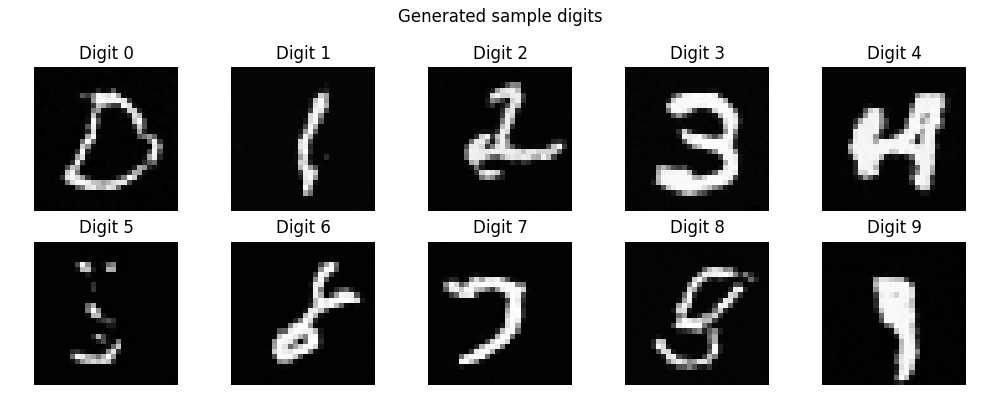
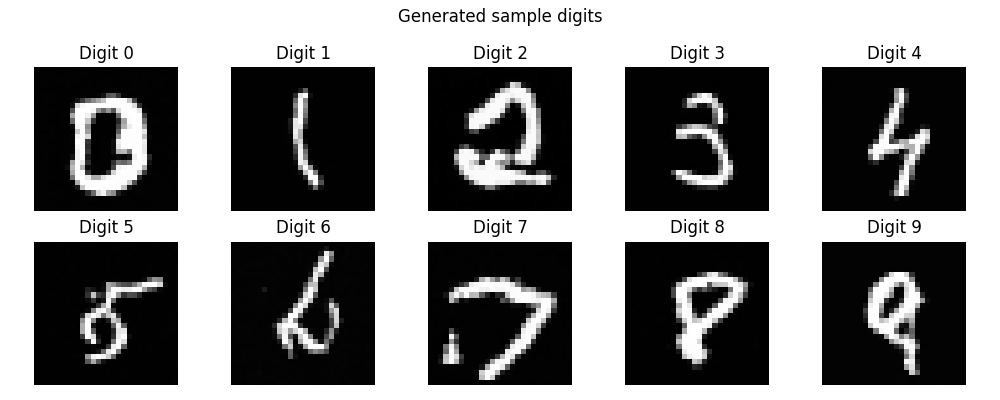
syncing

diff --git a/MNIST_Experiments/Conditional_Flow_Matching copy.py b/MNIST_Experiments/Conditional_Flow_Matching copy.py
@@ -189,8 +189,8 @@ def plot_samples(model):
     plt.show()
 
 def main():
-    batch_size = 64
-    num_epochs = 10
+    batch_size = 128
+    num_epochs = 50
     dataloader = get_dataloader(batch_size)
     
     model = FlowMatchingNet().to(device)
